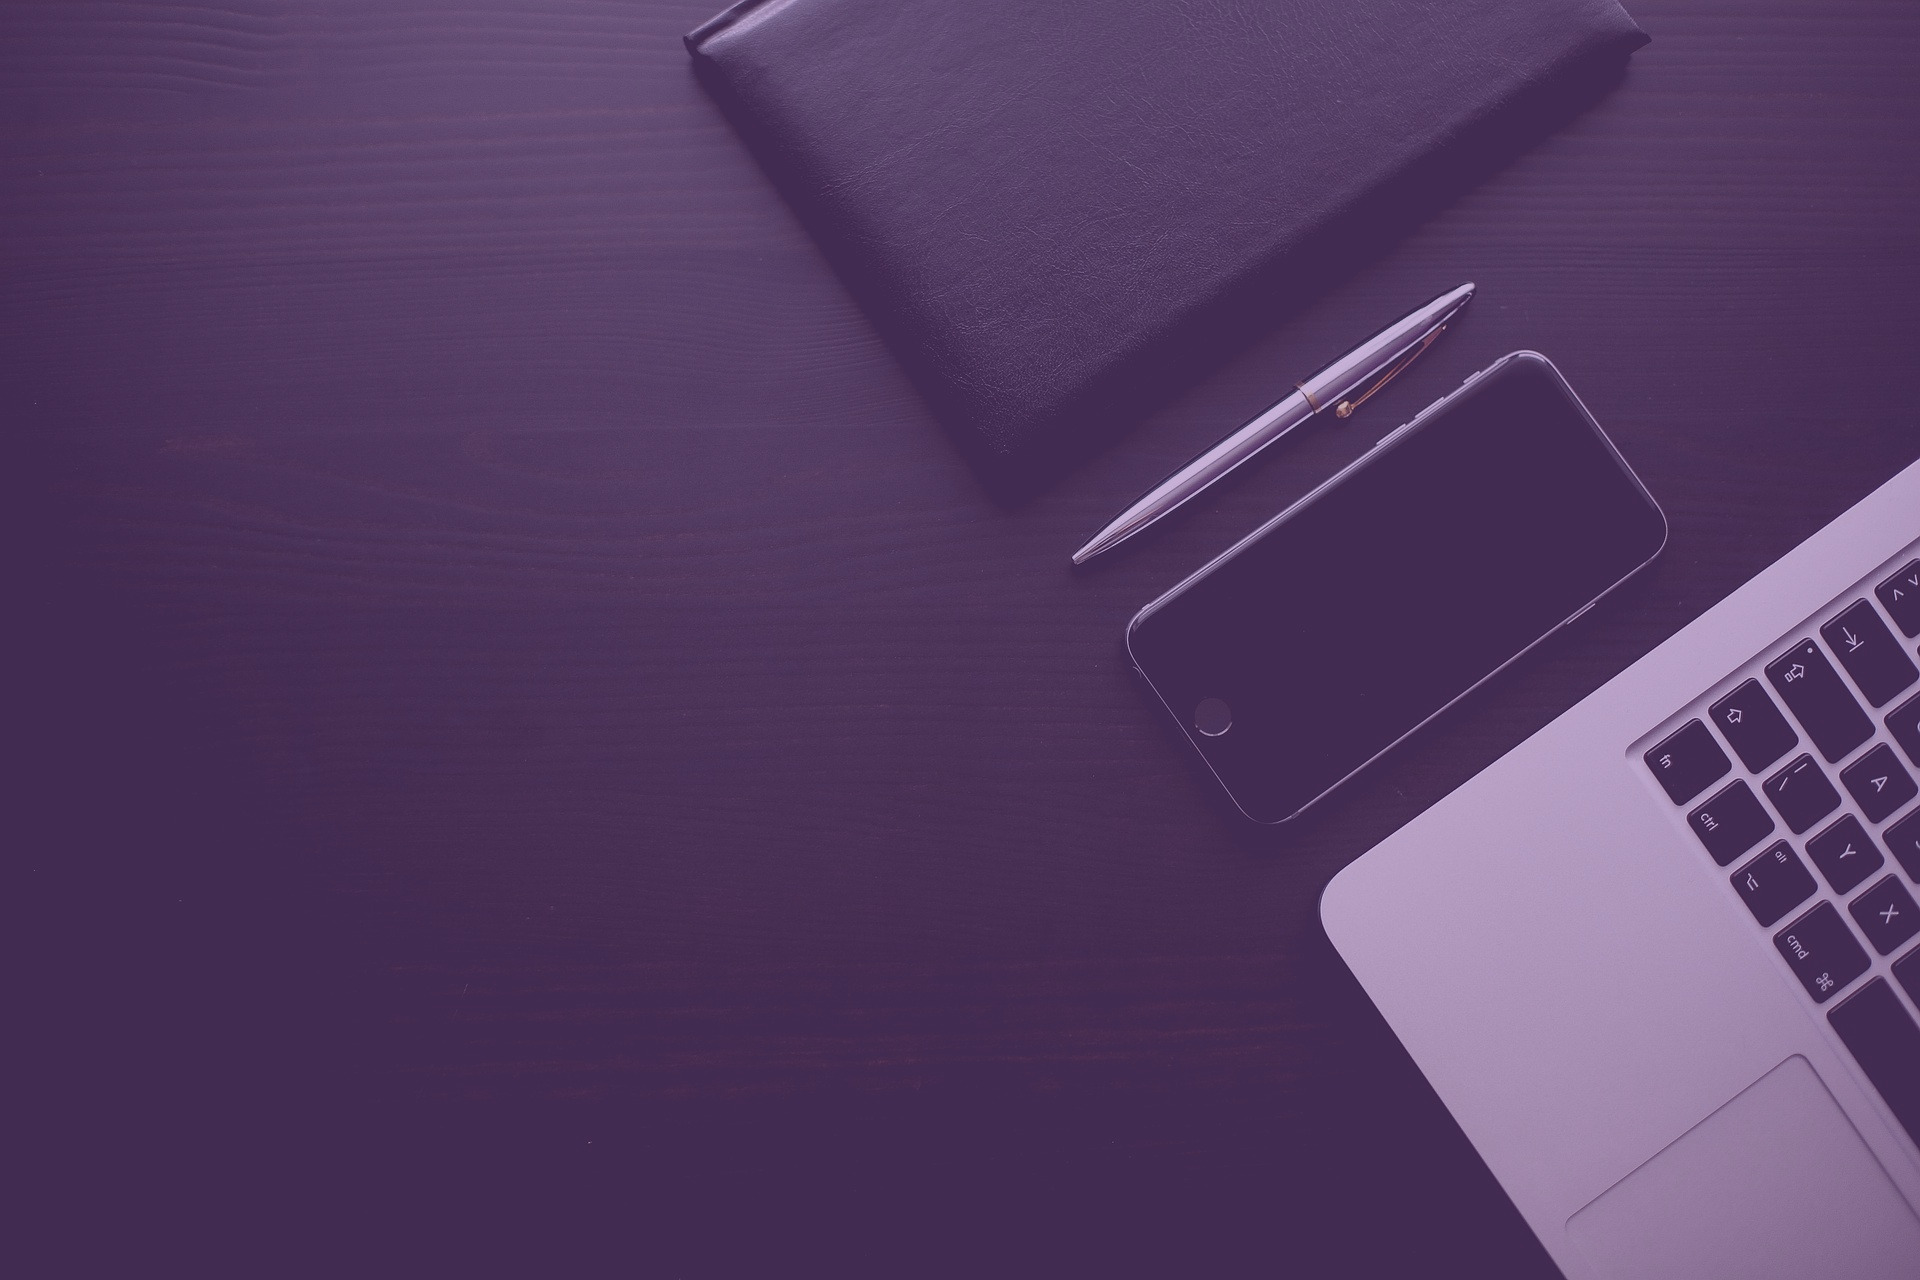
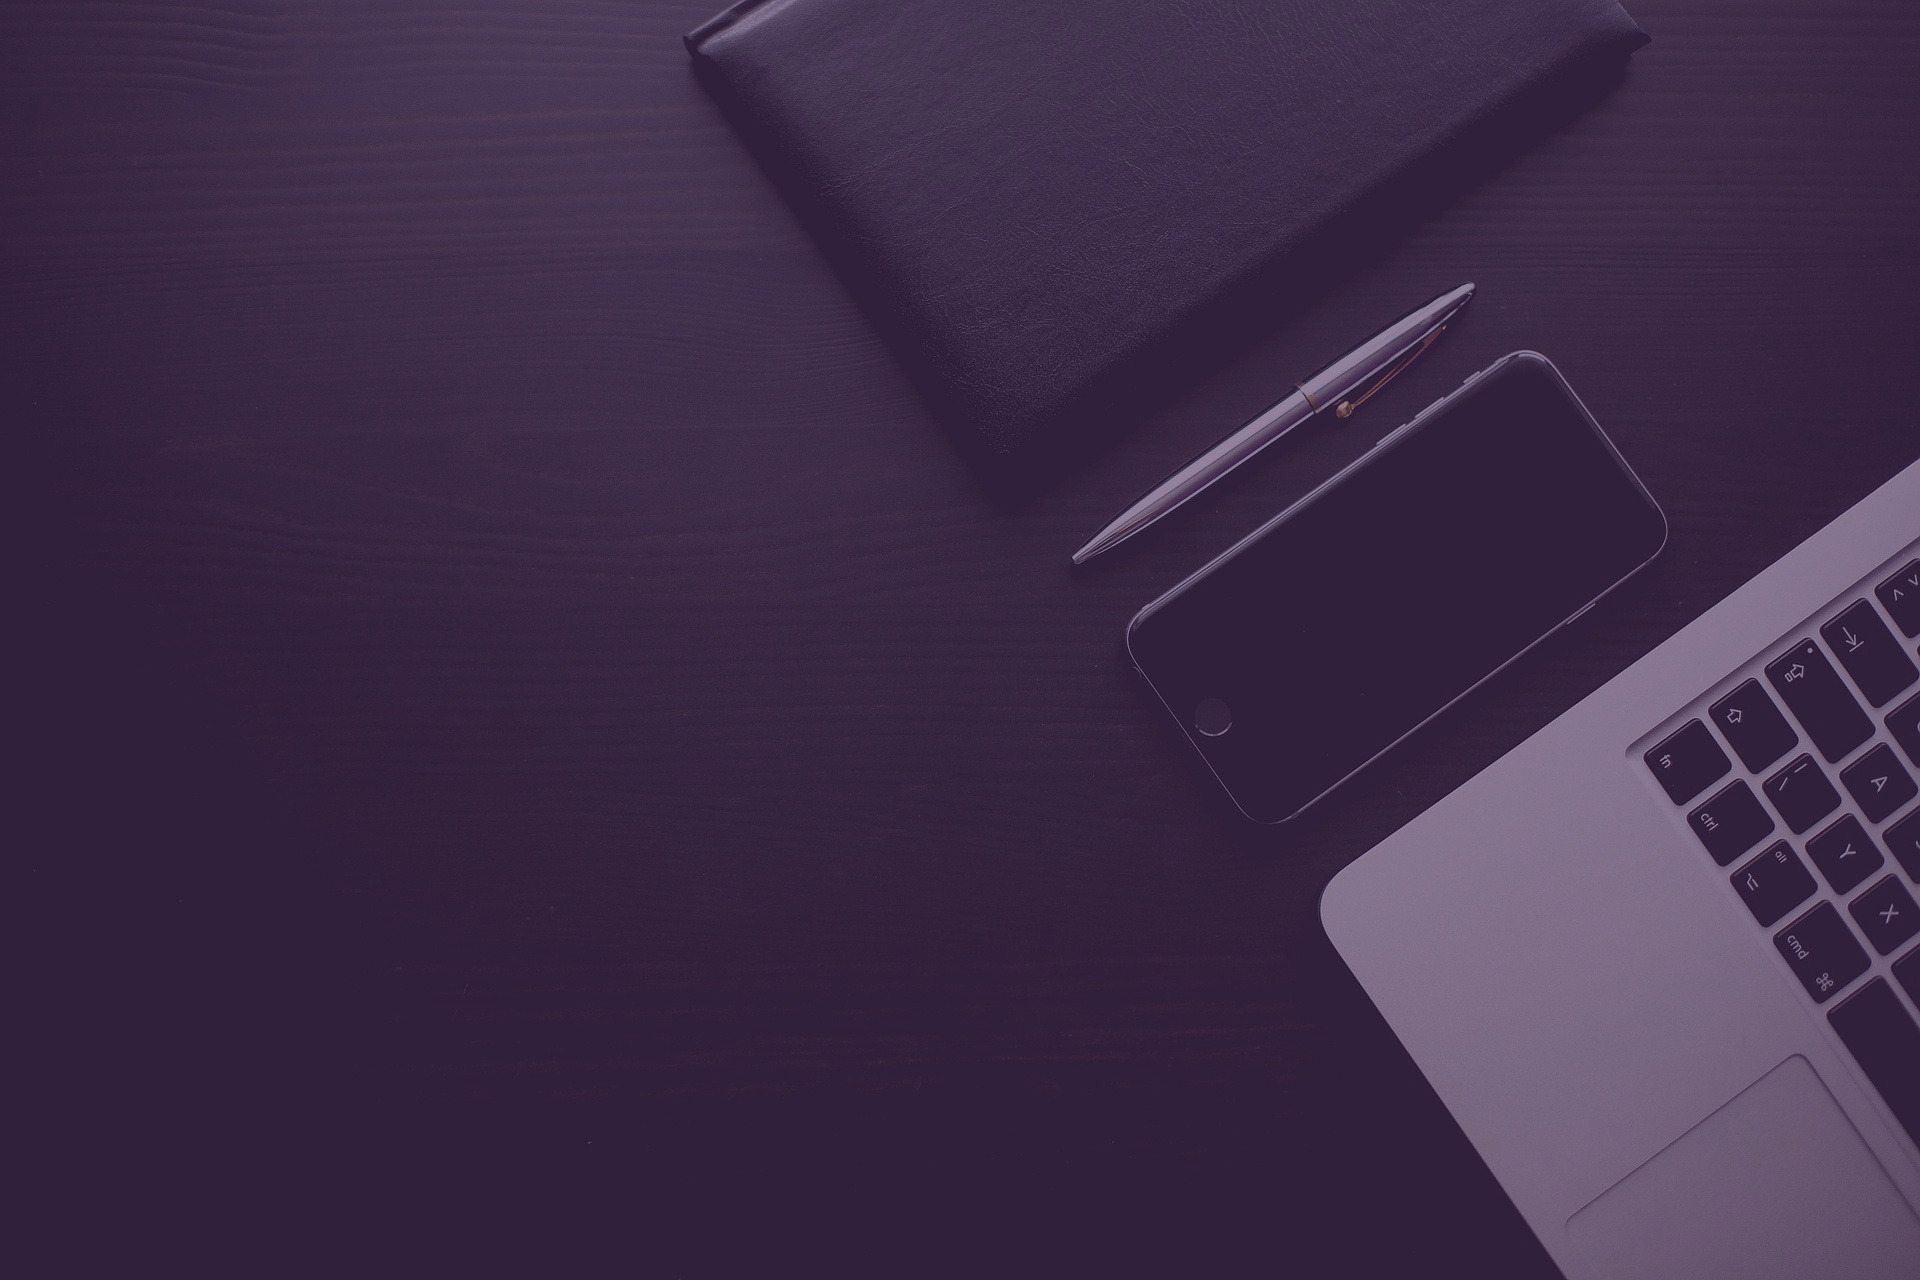
Dark theme

diff --git a/index.html b/index.html
@@ -312,7 +312,7 @@
           <div class="carousel-inner">
 
               <div class="item active row">
-                  <div class="project-item col-xs-12 col-sm-10 col-md-8 col-lg-6 col-xs-offset-1 col-sm-offset-0 col-md-offset-2 col-lg-offset-3">
+                  <div class="project-item col-xs-12 col-sm-10 col-md-8 col-lg-6 col-sm-offset-1 col-md-offset-2 col-lg-offset-3">
                     <div class="project-logo">
                         <img src="https://raw.githubusercontent.com/Kunzisoft/KeePassDX/master/art/icon.png" alt="logo" />
                     </div>
@@ -338,7 +338,7 @@
               </div>
 
                 <div class="item row">
-                  <div class="project-item col-xs-12 col-sm-10 col-md-8 col-lg-6 col-xs-offset-1 col-sm-offset-0 col-md-offset-2 col-lg-offset-3">
+                  <div class="project-item col-xs-12 col-sm-10 col-md-8 col-lg-6 col-sm-offset-1 col-md-offset-2 col-lg-offset-3">
                     <div class="project-logo">
                         <img src="https://gitlab.com/kunzisoft/Android-KeyboardSwitcher/raw/master/art/icon.png" alt="logo" />
                     </div>
@@ -351,7 +351,7 @@
                         </div>
                         <div class="project-links">
                             <div class="project-description">
-                                <p data-l10n-id="keyboardSwitcher">Keyboard Switcher is a keyboard selection application, it allows to switch easily from the current keyboard to another in several ways, thanks to a discreet floating button available on the screen, a shortcut, or a notification.</p>
+                                <p data-l10n-id="keyboardSwitcher">Keyboard Switcher is a keyboard selection application, it allows to switch easily from the current keyboard to another in several ways.</p>
                                 <a class="btn btn-warning" href="https://gitlab.com/kunzisoft/Android-KeyboardSwitcher"><i class="fa fa-gitlab"></i> Gitlab</a>
                                 <div class="btn-group" role="group" aria-label="Links Keyboard Switcher">
                                     <a class="btn btn-success" href="https://f-droid.org/en/packages/com.kunzisoft.keyboard.switcher/"><i class="fa fa-linux"></i> F-Droid</a>
@@ -364,7 +364,7 @@
               </div>
 
               <div class="item row">
-                  <div class="project-item col-xs-12 col-sm-10 col-md-8 col-lg-6 col-xs-offset-1 col-sm-offset-0 col-md-offset-2 col-lg-offset-3">
+                  <div class="project-item col-xs-12 col-sm-10 col-md-8 col-lg-6 col-sm-offset-1 col-md-offset-2 col-lg-offset-3">
                     <div class="project-logo">
                         <img src="https://raw.githubusercontent.com/Kunzisoft/Android-SwitchDateTimePicker/master/art/logo.png" alt="logo" />
                     </div>
@@ -386,7 +386,7 @@
               </div>
 
               <div class="item row">
-                  <div class="project-item col-xs-12 col-sm-10 col-md-8 col-lg-6 col-xs-offset-1 col-sm-offset-0 col-md-offset-2 col-lg-offset-3">
+                  <div class="project-item col-xs-12 col-sm-10 col-md-8 col-lg-6 col-sm-offset-1 col-md-offset-2 col-lg-offset-3">
                     <div class="project-logo">
                         <img src="https://raw.githubusercontent.com/Kunzisoft/RememBirthday/master/art/logo.png" alt="logo" />
                     </div>
@@ -408,7 +408,7 @@
               </div>
 
               <div class="item row">
-                  <div class="project-item col-xs-12 col-sm-10 col-md-8 col-lg-6 col-xs-offset-1 col-sm-offset-0 col-md-offset-2 col-lg-offset-3">
+                  <div class="project-item col-xs-12 col-sm-10 col-md-8 col-lg-6 col-sm-offset-1 col-md-offset-2 col-lg-offset-3">
                     <div class="project-logo">
                         <img src="https://raw.githubusercontent.com/Kunzisoft/AndroidClearChroma/master/art/logo.png" alt="logo" />
                     </div>

diff --git a/css/custom.css b/css/custom.css
@@ -54,7 +54,7 @@ i.fa + span {
   color: #9d5fc3;
 }
 .navbar-transparent .navbar-nav > li > .external-link {
-  color: #9d5fc3;
+  color: #dda6ff;
 }
 .nav-tabs {
   margin-bottom: 15px;
@@ -82,8 +82,8 @@ i.fa + span {
   padding:0;
   -webkit-background-size: cover; /* pour anciens Chrome et Safari */
   background-size: cover; /* version standardisée */
-  color: #f6e7ff;
-  text-shadow: 0px 0px 12px #652a92;
+  color: #fff;
+  text-shadow: 0px 0px 12px #484848;
   background-attachment: fixed;
   background-image: url(../img/bg_light.jpg);
 }
@@ -178,7 +178,7 @@ h5 i.fa.description-icon {
   height: 88vh;
   background-size: cover;
   background-position: center center;
-  background-color: #32154499;
+  background-color: #18082399;
   color: #fff;
   top: 0px;
   left: 0px;
@@ -274,7 +274,7 @@ h5 i.fa.description-icon {
 .section-bg-light {
     background-color: #743998;
     background-size: cover;
-    color: #f6e7ff;
+    color: #fff;
     background-image: url(../img/bg_light.jpg);
     background-attachment: fixed;
 }
@@ -284,7 +284,7 @@ h5 i.fa.description-icon {
     text-shadow: 1px 1px 2px #242424;
 }
 .section-bg-dark {
-    background-color: #743998;
+    background: linear-gradient(to right, #5b3075, #8a56bd) !important;
     background-size: cover;
     color: #F5F5F5;
     border-top: 1px solid #51216f;
@@ -297,9 +297,10 @@ h5 i.fa.description-icon {
     text-shadow: 0px 1px 8px #311640;
 }
 .section-bg-projects {
-    background: url("../img/bg_light.jpg") fixed;
     color: #F5F5F5;
-    background-size: cover;
+    background: url(../img/bg_project.jpg) fixed;
+    border: #51216f solid;
+    border-width: 1px 0;
 }
 .section-bg-projects h1,
 .section-bg-projects h2,
@@ -309,6 +310,9 @@ h5 i.fa.description-icon {
 }
 .section-smallTop {
     padding-top: 6px;
+}
+#projects-carousel {
+    background: url("../img/background_repeat.png");
 }
 @media (max-width:767px) {
   .section-bg-projects h1,
@@ -450,7 +454,7 @@ table .col-hidden > * {
  TILE
 */
 .tile {
-  background: #743998;
+  background: linear-gradient(to right, #743998, #8049ad) !important;
   padding: 0px 20px 20px 20px;
   border-radius: 18px;
   color: #edeaef;
@@ -539,7 +543,6 @@ table .col-hidden > * {
 }
 .project-description p {
   margin-top: 16px;
-  color: #4a4a4a;
   line-height: 160%;
 }
 .project-description .btn {
@@ -547,7 +550,8 @@ table .col-hidden > * {
 }
 .project-links {
   border-radius: 0 0 18px 18px;
-  background: white;
+  background: #3c3c3c;
+  color: #fff;
 }
 
 @media (max-width:767px) {

diff --git a/css/bootstrap.css b/css/bootstrap.css
@@ -4504,8 +4504,8 @@ select[multiple].input-group-sm > .input-group-btn > .btn {
   }
 }
 .navbar-default {
-  background-color: #e3cfff;
-  border-color: #6B4A9C;
+  background-color: #3c3c3c;
+  border-color: #262626;
 }
 .navbar-default .navbar-brand {
   color: #ffffff;
@@ -4520,7 +4520,7 @@ select[multiple].input-group-sm > .input-group-btn > .btn {
 }
 .navbar-default .navbar-nav > li > a {
   color: #df3e32;
-  text-shadow: 0 0 2px #ccc;
+  /*! text-shadow: 0 0 2px #ccc; */
   font-weight: bold;
 }
 .navbar-default .navbar-nav > li > a:hover,
@@ -4532,7 +4532,7 @@ select[multiple].input-group-sm > .input-group-btn > .btn {
 .navbar-default .navbar-nav > .active > a:hover,
 .navbar-default .navbar-nav > .active > a:focus {
   color: #ffffff;
-  background-color: #743998;
+  background-color: #8656ad;
 }
 .navbar-default .navbar-nav > .disabled > a,
 .navbar-default .navbar-nav > .disabled > a:hover,

diff --git a/js/custom.js b/js/custom.js
@@ -16,6 +16,8 @@ $(document).ready(function() {
         language = navigator.language;
     if(language.toLowerCase().includes("fr"))
         language = "fr";
+    else
+        language = "en";
 
     // Change langage
     document.webL10n.setLanguage(language);
